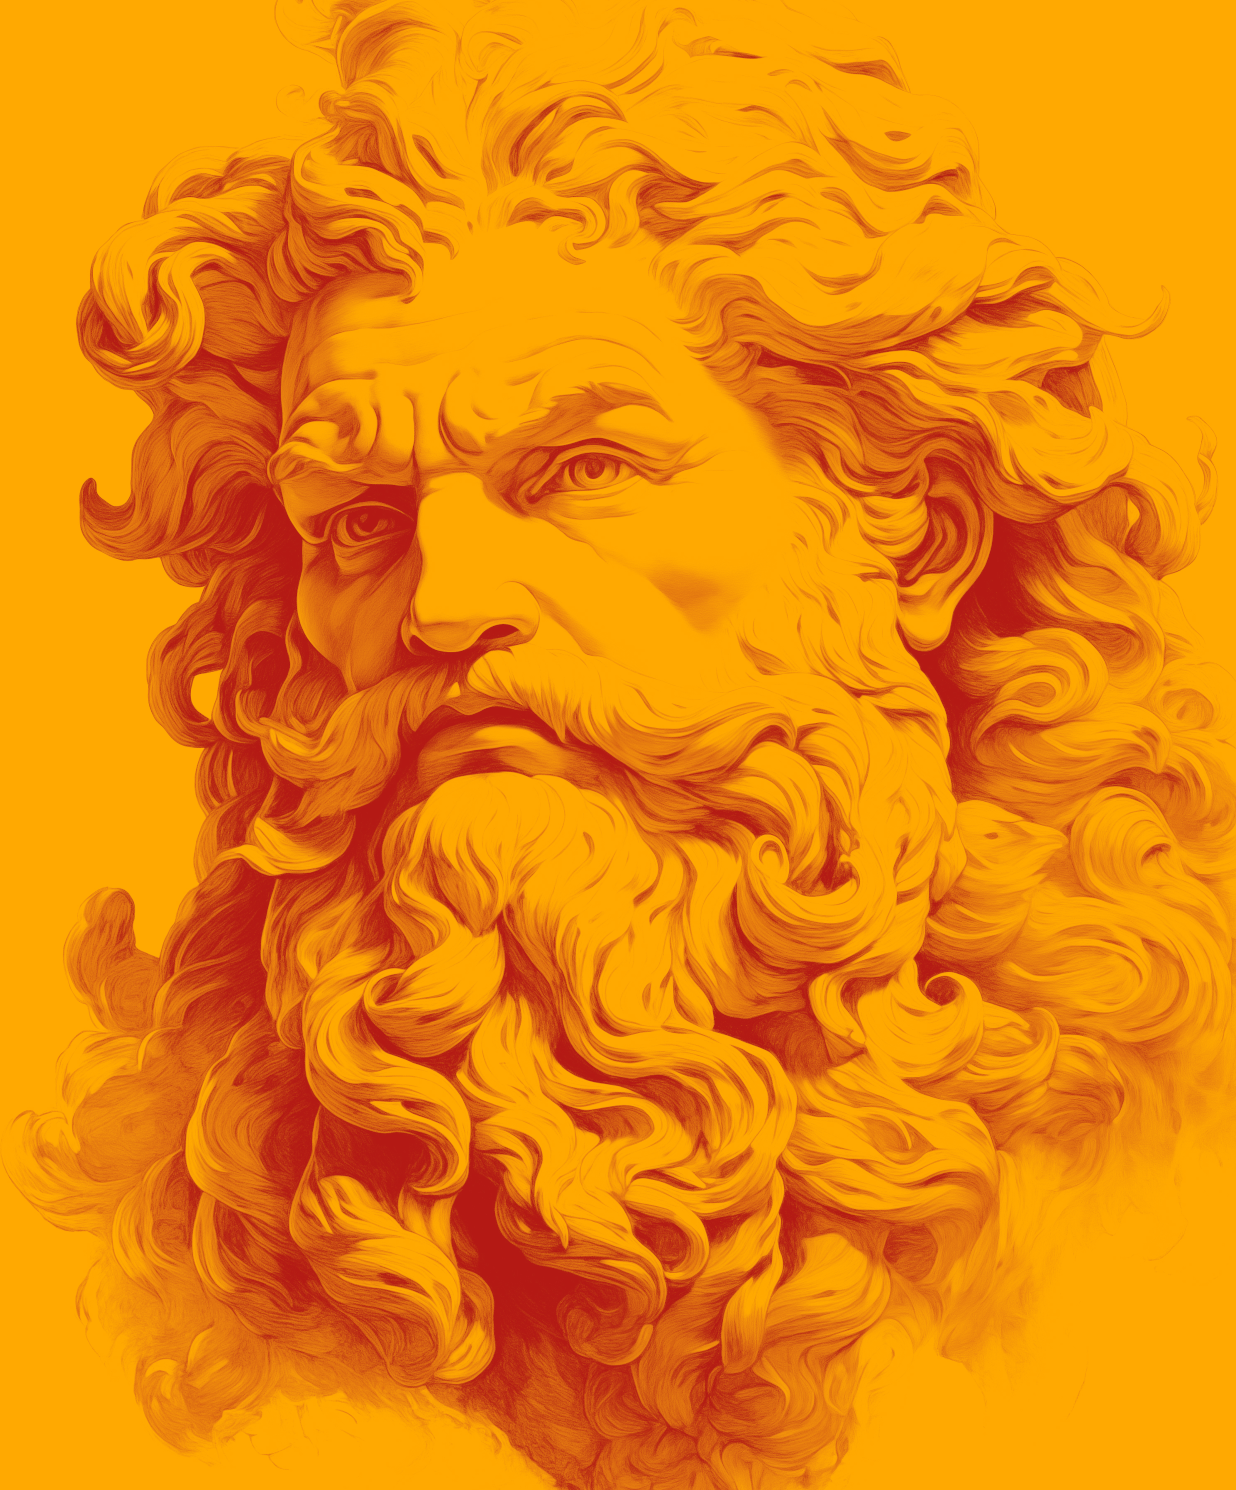
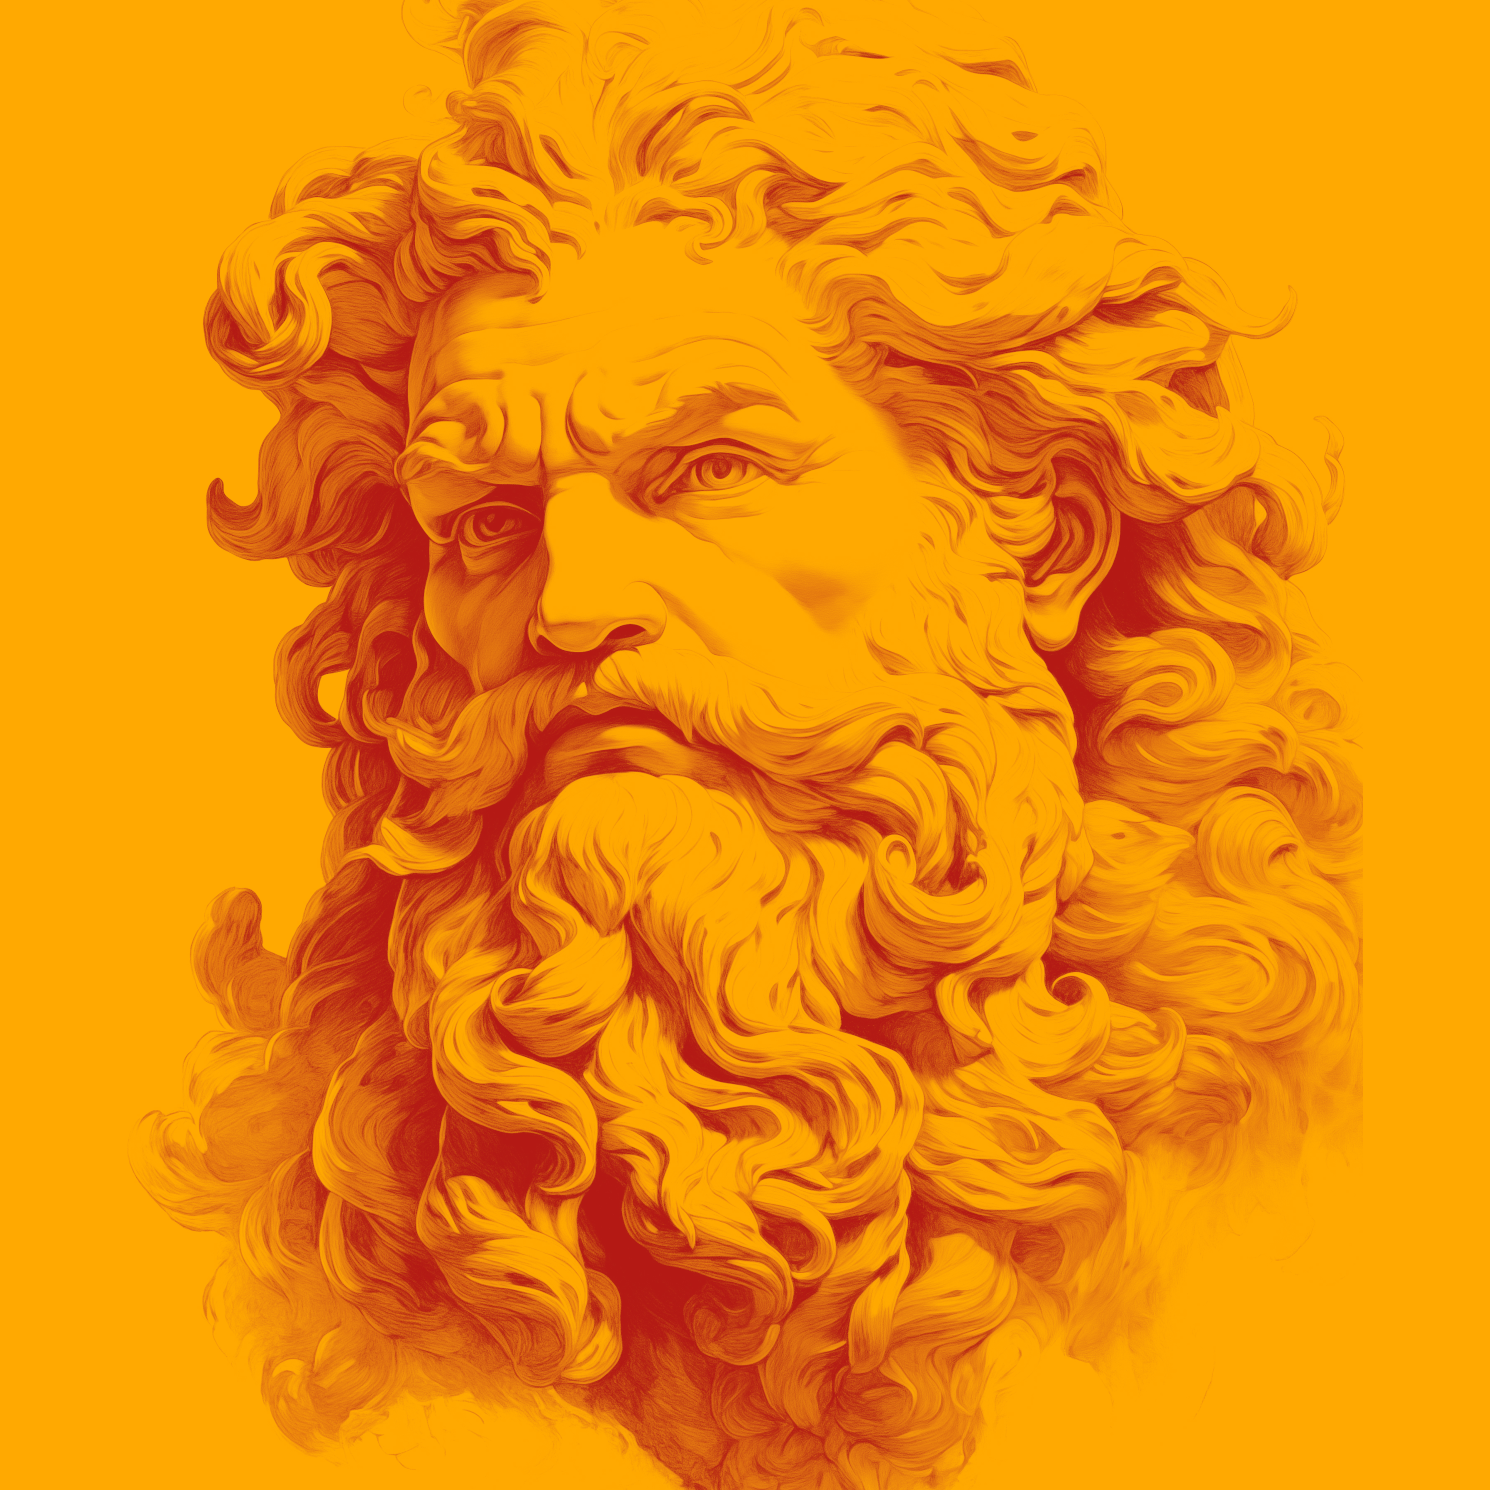
What is ZEUS?: update image croppings and add lightning links

diff --git a/views/Intro.tsx b/views/Intro.tsx
@@ -20,6 +20,7 @@ import { ErrorMessage } from '../components/SuccessErrorMessage';
 import { createLndWallet } from '../utils/LndMobileUtils';
 import { localeString } from '../utils/LocaleUtils';
 import { themeColor } from '../utils/ThemeUtils';
+import UrlUtils from '../utils/UrlUtils';
 
 const One = require('../assets/images/intro/1.png');
 const Two = require('../assets/images/intro/2.png');
@@ -79,8 +80,7 @@ const Intro: React.FC<IntroProps> = (props) => {
                 source={item.illustration}
                 style={{
                     width: screenWidth,
-                    minHeight: '60%',
-                    maxHeight: '80%'
+                    height: '60%'
                 }}
             />
             <View
@@ -115,6 +115,44 @@ const Intro: React.FC<IntroProps> = (props) => {
                 >
                     {item.text}
                 </Text>
+                {item.text === localeString('views.Intro.carousel3.text') && (
+                    <>
+                        <View
+                            style={{
+                                padding: 10
+                            }}
+                        >
+                            <Button
+                                title={localeString(
+                                    'views.Intro.lightningOnboarding'
+                                )}
+                                onPress={() =>
+                                    UrlUtils.goToUrl(
+                                        'https://docs.zeusln.app/for-users/embedded-node/lightning-onboarding/'
+                                    )
+                                }
+                                secondary
+                            />
+                        </View>
+                        <View
+                            style={{
+                                padding: 10
+                            }}
+                        >
+                            <Button
+                                title={localeString(
+                                    'views.Intro.lightningLiquidity'
+                                )}
+                                onPress={() =>
+                                    UrlUtils.goToUrl(
+                                        'https://bitcoin.design/guide/how-it-works/liquidity/'
+                                    )
+                                }
+                                secondary
+                            />
+                        </View>
+                    </>
+                )}
                 {item.text === localeString('views.Intro.carousel4.text') && (
                     <>
                         {error && (
